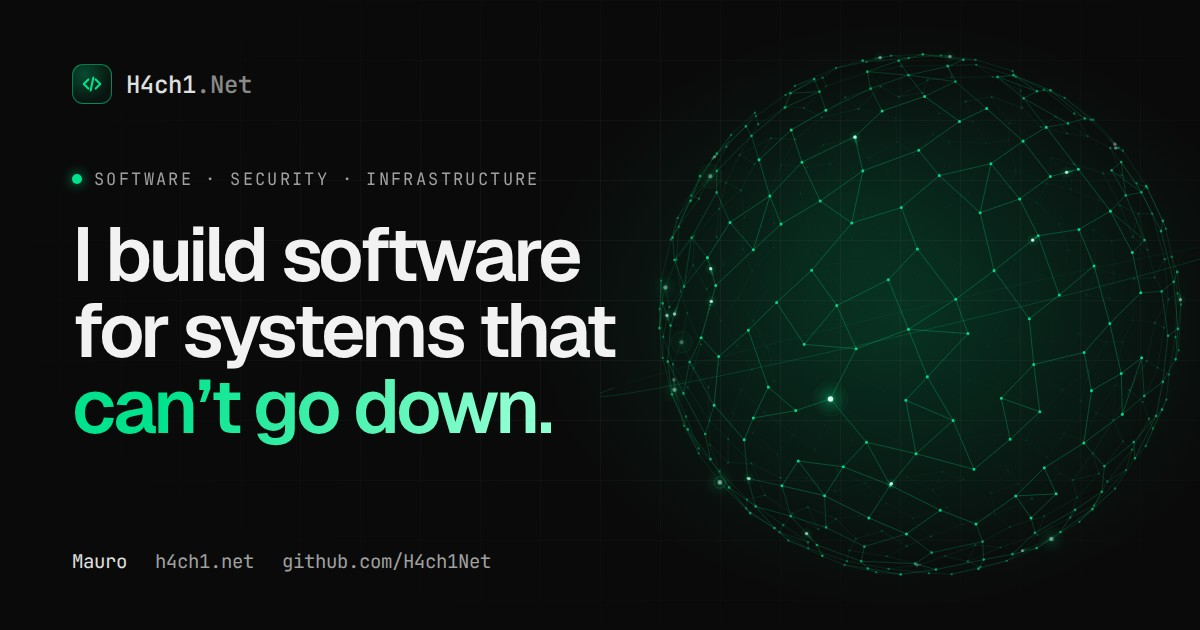
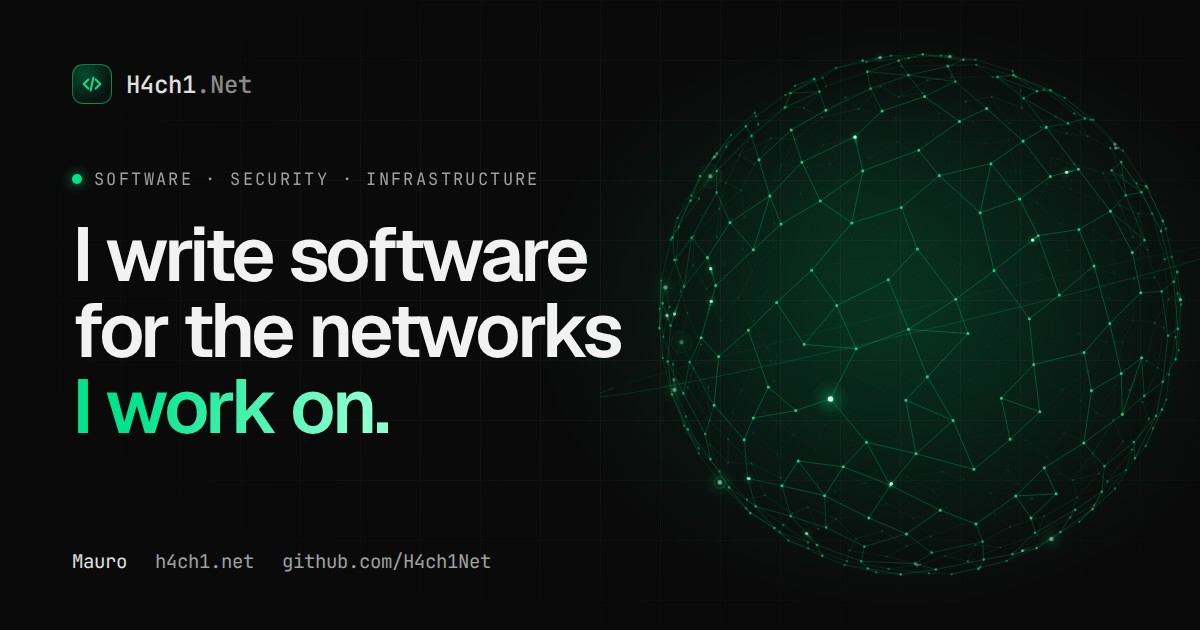
Tighten copy for accuracy and privacy
Accuracy (every claim now traces to the resume or a public repo):
- Hero: "I write software for the networks I work on." replaces the
  "systems that can't go down" tagline; lede names the IT apprenticeship.
- Footer no longer claims "designed and built by" (the site was built
  with AI assistance).
- Recognition no longer says every result links to a source; only some
  have verification pages. Title is now "Competing since 2022."
- Drop spin: "shipped", "in a year", "Shipping full time", employer
  flourishes, and causal claims in the stack blurbs.
- Tenure shows months ("2 yr 4 mo") instead of a day count the start
  date can't support.
- KS LED card now describes the repo as it is today (KS Light: Android
  app plus optional hub) and drops unverifiable claims.
- Project previews are captioned "Animated mockup · simulated data".

Privacy:
- Location shown as "Southern California" only; employer city removed.
- LinkedIn link text is "LinkedIn" instead of the full-name URL slug.

Claude-Session: https://claude.ai/code/session_017Rg1uWJba9J1H3VCg83q8v

Changed region(s): [[0.0617, 0.4825, 0.5242, 0.7238], [0.0925, 0.3619, 0.4933, 0.4524]]

diff --git a/src/content/site.js b/src/content/site.js
@@ -8,8 +8,7 @@ export const PROFILE = {
   email: 'h4ch1net@gmail.com',
   github: 'https://github.com/H4ch1Net',
   linkedin: 'https://linkedin.com/in/mauro-hernandez-rico',
-  linkedinLabel: 'mauro-hernandez-rico',
-  region: 'Coachella Valley, CA',
+  region: 'Southern California',
   timeZone: 'America/Los_Angeles',
   source: 'https://github.com/H4ch1Net/H4ch1Net.github.io',
   // Start of the Eisenhower Health apprenticeship; drives the "uptime" readout.
@@ -29,20 +28,24 @@ export const NAV = [
 export const HERO = {
   eyebrow: 'Software engineering · Security · Infrastructure',
   eyebrowShort: 'Software · Security · Infrastructure',
-  titleLines: ['I build software', 'for systems that'],
-  titleAccent: 'can\u2019t go down.',
-  lede: "I'm Mauro, a computer science student and systems administrator. I ship Python tooling into production at a 450-bed hospital, build open-source detection and network-visibility tools, and compete nationally in cybersecurity.",
+  titleLines: ['I write software', 'for the networks'],
+  titleAccent: 'I work on.',
+  lede: "I'm Mauro, a computer science student and IT apprentice working as a systems administrator at a 450-bed hospital, where I build Python network automation that runs in production. I also build open-source security and network tools, and I compete nationally in CTFs.",
 }
 
 export const HUD = [
-  { label: 'Now', value: 'Systems Administrator', sub: 'Eisenhower Health' },
-  { label: 'Studying', value: 'B.S. Computer Science', sub: 'CSUSB, class of 2029' },
+  { label: 'Now', value: 'Systems Administrator', sub: 'IT apprenticeship, Eisenhower Health' },
+  { label: 'Studying', value: 'B.S. Computer Science', sub: 'CSUSB, expected 2029' },
 ]
 
 export const METRICS = [
   { value: 450, suffix: '-bed', label: 'hospital infrastructure my Python automation supports' },
-  { value: 3, label: 'production tools shipped in my first 60 days as a sysadmin' },
-  { value: 1, suffix: 'st', label: 'place, college division, IE Mayors Cyber Cup 2025 (3rd of 143 overall)' },
+  { value: 3, label: 'production tools shipped in the first 60 days of my sysadmin rotation' },
+  {
+    value: 1,
+    suffix: 'st',
+    label: 'place in the college division, IE Mayors Cyber Cup 2025 (team), 3rd of 143 teams overall',
+  },
   { value: 3, prefix: 'Top ', suffix: '%', label: 'National Cyber League, Diamond tier, Fall 2024 team game' },
 ]
 
@@ -178,11 +181,11 @@ export const PROJECTS = [
   },
   {
     id: 'ks-led',
-    name: 'KS LED Controller',
-    kind: 'Bluetooth reverse engineering',
+    name: 'KS Light',
+    kind: 'Bluetooth light control',
     summary:
-      'Reverse-engineered the Bluetooth protocol of discontinued KS LED hardware, then wrote an open-source Python controller to replace the broken vendor app.',
-    stack: ['Python', 'Bluetooth LE', 'Reverse engineering'],
+      'Local, cloud-free control for KS Bluetooth lights over their reverse-engineered BLE protocol: an Android app with presets, scenes, effects, and widgets, plus an optional Python hub for Home Assistant and Stream Deck. MIT licensed.',
+    stack: ['Kotlin', 'Python', 'Bluetooth LE', 'MQTT'],
     href: 'https://github.com/H4ch1Net/ks-led-controller',
   },
   {
@@ -231,9 +234,8 @@ export const EXPERIENCE = [
 export const EMPLOYER = {
   name: 'Eisenhower Health',
   program: 'IT Apprenticeship',
-  location: 'Rancho Mirage, CA',
   blurb:
-    '450-bed regional health system. HIPAA-regulated, segmented networks, clinical systems that run around the clock.',
+    '450-bed regional health system. Apprenticeship rotations from the service desk through desktop support to systems administration, in a HIPAA-regulated environment.',
 }
 
 export const LEADERSHIP = {
@@ -247,9 +249,9 @@ export const LEADERSHIP = {
 }
 
 export const ABOUT = {
-  title: 'Studying full time. Shipping full time.',
+  title: 'Studying full time. Working full time.',
   bio: [
-    "I'm Mauro, also known online as H4ch1Net. I started on a hospital service desk in 2024 and have worked my way into systems administration, automating whatever the job let me automate along the way: first a PowerShell deployment framework, then Python network automation and inventory tooling that's still in production.",
+    "I'm Mauro, also known online as H4ch1Net. I started on a hospital service desk in 2024 and moved through desktop support into systems administration as part of an IT apprenticeship, automating what I could along the way: first a PowerShell deployment framework, then the Python network automation and inventory tools I build and maintain now.",
     "I'm dual-enrolled full time at CSUSB and College of the Desert while working full time in enterprise IT. Outside of that, I compete in CTFs, run my college's cybersecurity club, and build tools for detection, network visibility, and automation. Software engineering is where I'm headed.",
   ],
   education: [
@@ -278,7 +280,7 @@ export const STACK = [
   {
     id: 'swe',
     title: 'Software engineering',
-    blurb: 'Backend services, CLIs, and developer tooling, mostly in Python and increasingly full stack.',
+    blurb: 'CLIs, backend services, and automation, mostly in Python, plus some React and JavaScript on the front end.',
     groups: [
       { label: 'Languages', items: ['Python', 'JavaScript', 'C++', 'C#', 'SQL', 'PowerShell', 'Bash', 'MicroPython'] },
       {
@@ -294,7 +296,8 @@ export const STACK = [
   {
     id: 'sec',
     title: 'Security',
-    blurb: 'Offense-informed defense: competition experience feeding detection engineering and tooling.',
+    blurb:
+      'Competing in CTFs since 2022, and building security tools: a CTF toolkit, a detection engine, and an OSINT console.',
     groups: [
       {
         label: 'Tools',
@@ -310,7 +313,7 @@ export const STACK = [
   {
     id: 'infra',
     title: 'Infrastructure & IT',
-    blurb: 'Enterprise Windows and Cisco networks in a HIPAA-regulated, around-the-clock environment.',
+    blurb: 'Enterprise Windows and Cisco networking in a HIPAA-regulated healthcare environment.',
     groups: [
       {
         label: 'Systems',
@@ -440,5 +443,5 @@ export const CERTS_IN_PROGRESS = ['CompTIA Security+', 'Cisco CCNA']
 
 export const CONTACT = {
   title: ['Let’s build something', 'that stays up.'],
-  lede: "I'm open to software engineering internships and roles, especially where reliability and security matter. Email is the fastest way to reach me.",
+  lede: "I'm looking for software engineering opportunities, especially where reliability and security matter. Email is the fastest way to reach me.",
 }

diff --git a/src/App.jsx b/src/App.jsx
@@ -115,8 +115,14 @@ function formatClock(date, timeZone) {
   }
 }
 
-function daysSince(iso) {
-  return Math.floor((Date.now() - Date.parse(iso)) / 86400000)
+// Whole months since the given start, shown as "2 yr 4 mo". The start month is
+// on record but not the day, so a day count would be false precision.
+function tenure(iso) {
+  const start = new Date(iso)
+  const now = new Date()
+  const months = (now.getFullYear() - start.getFullYear()) * 12 + now.getMonth() - start.getMonth()
+  const years = Math.floor(months / 12)
+  return years > 0 ? `${years} yr ${months % 12} mo` : `${months} mo`
 }
 
 /* ------------------------------------------------------------------ */
@@ -316,7 +322,7 @@ function Heartbeat() {
 function Hero() {
   const now = useClock(15000)
   const clock = formatClock(now, PROFILE.timeZone)
-  const uptime = daysSince(PROFILE.itSince)
+  const uptime = tenure(PROFILE.itSince)
 
   return (
     <section id="top" className="hero" aria-labelledby="hero-title">
@@ -385,8 +391,8 @@ function Hero() {
           <div className="hud__cell">
             <dt>Uptime</dt>
             <dd>
-              <span className="hud__value hud__value--mono">{uptime.toLocaleString('en-US')} days</span>
-              <span className="hud__sub">in enterprise IT, and counting</span>
+              <span className="hud__value hud__value--mono">{uptime}</span>
+              <span className="hud__sub">in enterprise IT, since June 2024</span>
             </dd>
           </div>
         </dl>
@@ -449,7 +455,10 @@ function FeaturedProject({ project, index }) {
       aria-labelledby={`project-${project.id}-title`}
     >
       <div className="work-item__visual" data-reveal="">
-        <div className="work-visual">{Preview && <Preview />}</div>
+        <div className="work-item__frame">
+          <div className="work-visual">{Preview && <Preview />}</div>
+        </div>
+        <p className="work-item__caption">Animated mockup · simulated data</p>
       </div>
       <div className="work-item__body" data-reveal="1">
         <p className="work-item__meta">
@@ -516,7 +525,7 @@ function WorkSection() {
           id="work-title"
           index="01"
           kicker="Selected work"
-          title="Software I've designed, built, and shipped."
+          title="Software I've designed and built."
           aside={`${FEATURED.length} featured · ${PROJECTS.length} more`}
         />
         <div className="work-list">
@@ -564,16 +573,14 @@ function ExperienceSection() {
           id="experience-title"
           index="02"
           kicker="Experience"
-          title="From the service desk to systems administration in a year."
+          title="From the service desk to systems administration."
         />
         <div className="xp">
           <aside className="xp__aside" data-reveal="">
             <div className="employer">
               <p className="employer__label">Employer</p>
               <p className="employer__name">{EMPLOYER.name}</p>
-              <p className="employer__meta">
-                {EMPLOYER.program} · {EMPLOYER.location}
-              </p>
+              <p className="employer__meta">{EMPLOYER.program}</p>
               <p className="employer__blurb">{EMPLOYER.blurb}</p>
               <ol className="ladder" aria-label="Role progression">
                 {steps.map((job, i) => (
@@ -818,8 +825,8 @@ function RecognitionSection() {
           id="recognition-title"
           index="05"
           kicker="Recognition"
-          title="Competition-tested, independently verified."
-          aside="Every result links to its source"
+          title="Competing since 2022."
+          aside="Verification links where available"
         />
 
         <div className="honors">
@@ -1042,7 +1049,7 @@ function ContactSection({ onCopyEmail, copied }) {
           <li>
             <a href={PROFILE.linkedin} {...EXTERNAL}>
               <LinkedInMark size={16} />
-              in/{PROFILE.linkedinLabel}
+              LinkedIn
             </a>
           </li>
         </ul>
@@ -1062,9 +1069,7 @@ function Footer() {
           <span className="pulse-dot" aria-hidden="true" />
           All systems operational
         </p>
-        <p className="site-footer__built">
-          Designed and built by {PROFILE.name}. React, hand-written canvas, zero UI libraries.
-        </p>
+        <p className="site-footer__built">Built with React and hand-written canvas. No UI libraries.</p>
         <p className="site-footer__meta">
           <span>
             build {__BUILD_SHA__} · {__BUILD_DATE__}
@@ -1208,7 +1213,7 @@ function App() {
         id: 'linkedin',
         group: 'Links',
         label: 'LinkedIn',
-        hint: PROFILE.linkedinLabel,
+        hint: 'Profile',
         keywords: 'profile',
         icon: 'linkedin',
         run: () => openExternal(PROFILE.linkedin),

diff --git a/index.html b/index.html
@@ -7,7 +7,7 @@
     <meta name="theme-color" content="#0a0a0a" />
     <meta name="color-scheme" content="dark" />
     <title>Mauro (H4ch1Net) · Software, Security & Infrastructure</title>
-    <meta name="description" content="Portfolio of Mauro (H4ch1Net): computer science student and systems administrator building detection, network-visibility, and automation software. Nationally ranked CTF competitor." />
+    <meta name="description" content="Portfolio of Mauro (H4ch1Net): computer science student and IT apprentice building network, security, and automation tools. Nationally ranked CTF competitor." />
     <meta name="keywords" content="software engineer, portfolio, python, react, fastapi, cybersecurity, detection engineering, network automation, systems administrator, CTF" />
     <meta name="author" content="Mauro (H4ch1Net)" />
     <link rel="canonical" href="https://h4ch1.net/" />
@@ -15,7 +15,7 @@
     <meta property="og:url" content="https://h4ch1.net/" />
     <meta property="og:site_name" content="H4ch1.Net" />
     <meta property="og:title" content="Mauro (H4ch1Net) · Software, Security & Infrastructure" />
-    <meta property="og:description" content="I build software for systems that can't go down: detection engines, network visibility tools, and automation that runs in production at a 450-bed hospital." />
+    <meta property="og:description" content="Computer science student and IT apprentice writing Python network automation used in production at a 450-bed hospital, plus open-source security and network tools." />
     <meta property="og:image" content="https://h4ch1.net/og.jpg" />
     <meta property="og:image:width" content="1200" />
     <meta property="og:image:height" content="630" />

diff --git a/src/App.css b/src/App.css
@@ -1051,8 +1051,12 @@ main:focus {
   position: relative;
 }
 
+.work-item__frame {
+  position: relative;
+}
+
 /* Viewfinder corner ticks around each preview. */
-.work-item__visual::before {
+.work-item__frame::before {
   content: '';
   position: absolute;
   inset: -12px;
@@ -1072,7 +1076,7 @@ main:focus {
   transition: inset 0.6s var(--ease-out), opacity 0.4s ease;
 }
 
-.work-item:hover .work-item__visual::before {
+.work-item:hover .work-item__frame::before {
   inset: -16px;
   opacity: 1;
 }
@@ -1102,6 +1106,26 @@ main:focus {
     0 0 0 1px rgba(255, 255, 255, 0.02) inset,
     0 60px 110px -40px rgba(0, 0, 0, 0.95),
     0 40px 140px -50px rgba(0, 227, 140, 0.32);
+}
+
+.work-item__caption {
+  display: flex;
+  align-items: center;
+  gap: 8px;
+  margin-top: 18px;
+  font-family: var(--font-mono);
+  font-size: 0.68rem;
+  letter-spacing: 0.1em;
+  text-transform: uppercase;
+  color: var(--color-subtle);
+}
+
+.work-item__caption::before {
+  content: '';
+  width: 6px;
+  height: 6px;
+  border: 1px solid var(--color-subtle);
+  transform: rotate(45deg);
 }
 
 .work-item__meta {
@@ -2865,7 +2889,7 @@ main:focus {
   }
 
 
-  .work-item__visual::before {
+  .work-item__frame::before {
     display: none;
   }
 

diff --git a/README.md b/README.md
@@ -4,9 +4,10 @@
 [![Built with React](https://img.shields.io/badge/React-18-61dafb?style=flat-square&logo=react)](https://react.dev)
 [![Deployed on GitHub Pages](https://img.shields.io/badge/deployed-GitHub%20Pages-222?style=flat-square&logo=github)](https://pages.github.com)
 
-I'm Mauro (H4ch1Net): a CS student at CSUSB, dual-enrolled at College of the Desert, a
-systems administrator in the Coachella Valley, and a cybersecurity competitor working
-toward software engineering. This is my personal portfolio site.
+I'm Mauro (H4ch1Net): a CS student at CSUSB, dual-enrolled at College of the Desert, an
+IT apprentice working as a systems administrator in Southern California, and a
+cybersecurity competitor working toward software engineering. This is my personal
+portfolio site.
 
 **[h4ch1.net](https://h4ch1.net)** &nbsp;|&nbsp; **[GitHub](https://github.com/H4ch1Net)** &nbsp;|&nbsp; **[h4ch1net@gmail.com](mailto:h4ch1net@gmail.com)**
 
@@ -24,15 +25,16 @@ toward software engineering. This is my personal portfolio site.
 
 - **Network sphere hero.** A draggable 3D mesh of network nodes with packets walking the
   links and a periodic "health check" ring sweeping pole to pole. Hand-rolled projection.
-- **Live project previews.** Each featured project has an animated panel that shows what
-  it does: sentryd's detection chart and alert feed, switch-vis's front panel with
-  hoverable ports, Argus's dotted-earth globe with feed arcs, and Bagley's agent pipeline.
+- **Project previews.** Each featured project has an animated mockup panel (simulated
+  data, clearly labeled) that shows what it does: sentryd's detection chart and alert
+  feed, switch-vis's front panel with hoverable ports, Argus's dotted-earth globe with
+  feed arcs, and Bagley's agent pipeline.
 - **Command menu.** Press `Ctrl+K` / `Cmd+K` (or `/`) to jump to sections, open projects,
   or copy my email.
-- **NOC-style framing.** Status dots, a live local clock, an uptime counter, scroll progress,
-  and a timeline that fills as you scroll.
-- **Verified recognition.** NCL results, competitions, and certifications all link to their
-  official verification pages.
+- **NOC-style framing.** Status dots, a live local clock, time in enterprise IT, scroll
+  progress, and a timeline that fills as you scroll.
+- **Verifiable recognition.** NCL results and certifications link to their official
+  verification pages, as do competitions wherever a verification page exists.
 - **Accessible and fast.** Semantic landmarks, keyboard support, `prefers-reduced-motion`
   support everywhere, and every animation pauses when offscreen.
 - **Markdown-driven Logs.** Drop a `.md` file in `src/content/logs/`, push, and it publishes.

diff --git a/AGENTS.md b/AGENTS.md
@@ -81,7 +81,7 @@ labels, monitoring-style panels. The site is positioned as a software engineerin
 portfolio, with IT and security as the differentiators.
 
 The motion set is purposeful and small:
-- Hero: `NetworkSphere` (drag to rotate) and an ECG trace under "can't go down."
+- Hero: `NetworkSphere` (drag to rotate) and an ECG trace under the accent line.
 - Project previews: each featured project has a live mock panel showing what it does.
 - Sections reveal on scroll (`data-reveal`), the experience timeline fills as you scroll,
   metrics count up, and the contact section has a slow radar sweep.
@@ -97,7 +97,8 @@ when offscreen (`useInView`) and respect `prefers-reduced-motion` (render a stat
 - The résumé linked from this site is a portfolio-safe version with reduced PII
   (name, email, LinkedIn, GitHub only — no phone number, no home address). The
   full résumé used for direct applications is never committed here.
-- The site shows location only as "Coachella Valley, CA" (region level).
+- The site shows location only as "Southern California" (region level). The LinkedIn
+  link is labeled "LinkedIn"; don't print the full-name URL slug as visible text.
 - job-hunter's project card intentionally has no GitHub link ("Private repo" label)
   until its history is verified clean of personal config.
 
@@ -137,6 +138,9 @@ no value over the external verify links.
 - No inline `style={{}}` in JSX. Dynamic values go through CSS custom properties set from refs.
 - No !important unless absolutely necessary (the reduced-motion override is the one exception)
 - Copy style: no em dashes in visible text.
+- Accuracy: every claim must match the résumé or a public repo. No embellishment, no
+  false precision, and no authorship claims about the site itself. Preview panels show
+  simulated data and stay captioned "Animated mockup · simulated data".
 
 ## How to Verify Changes
 ```bash
